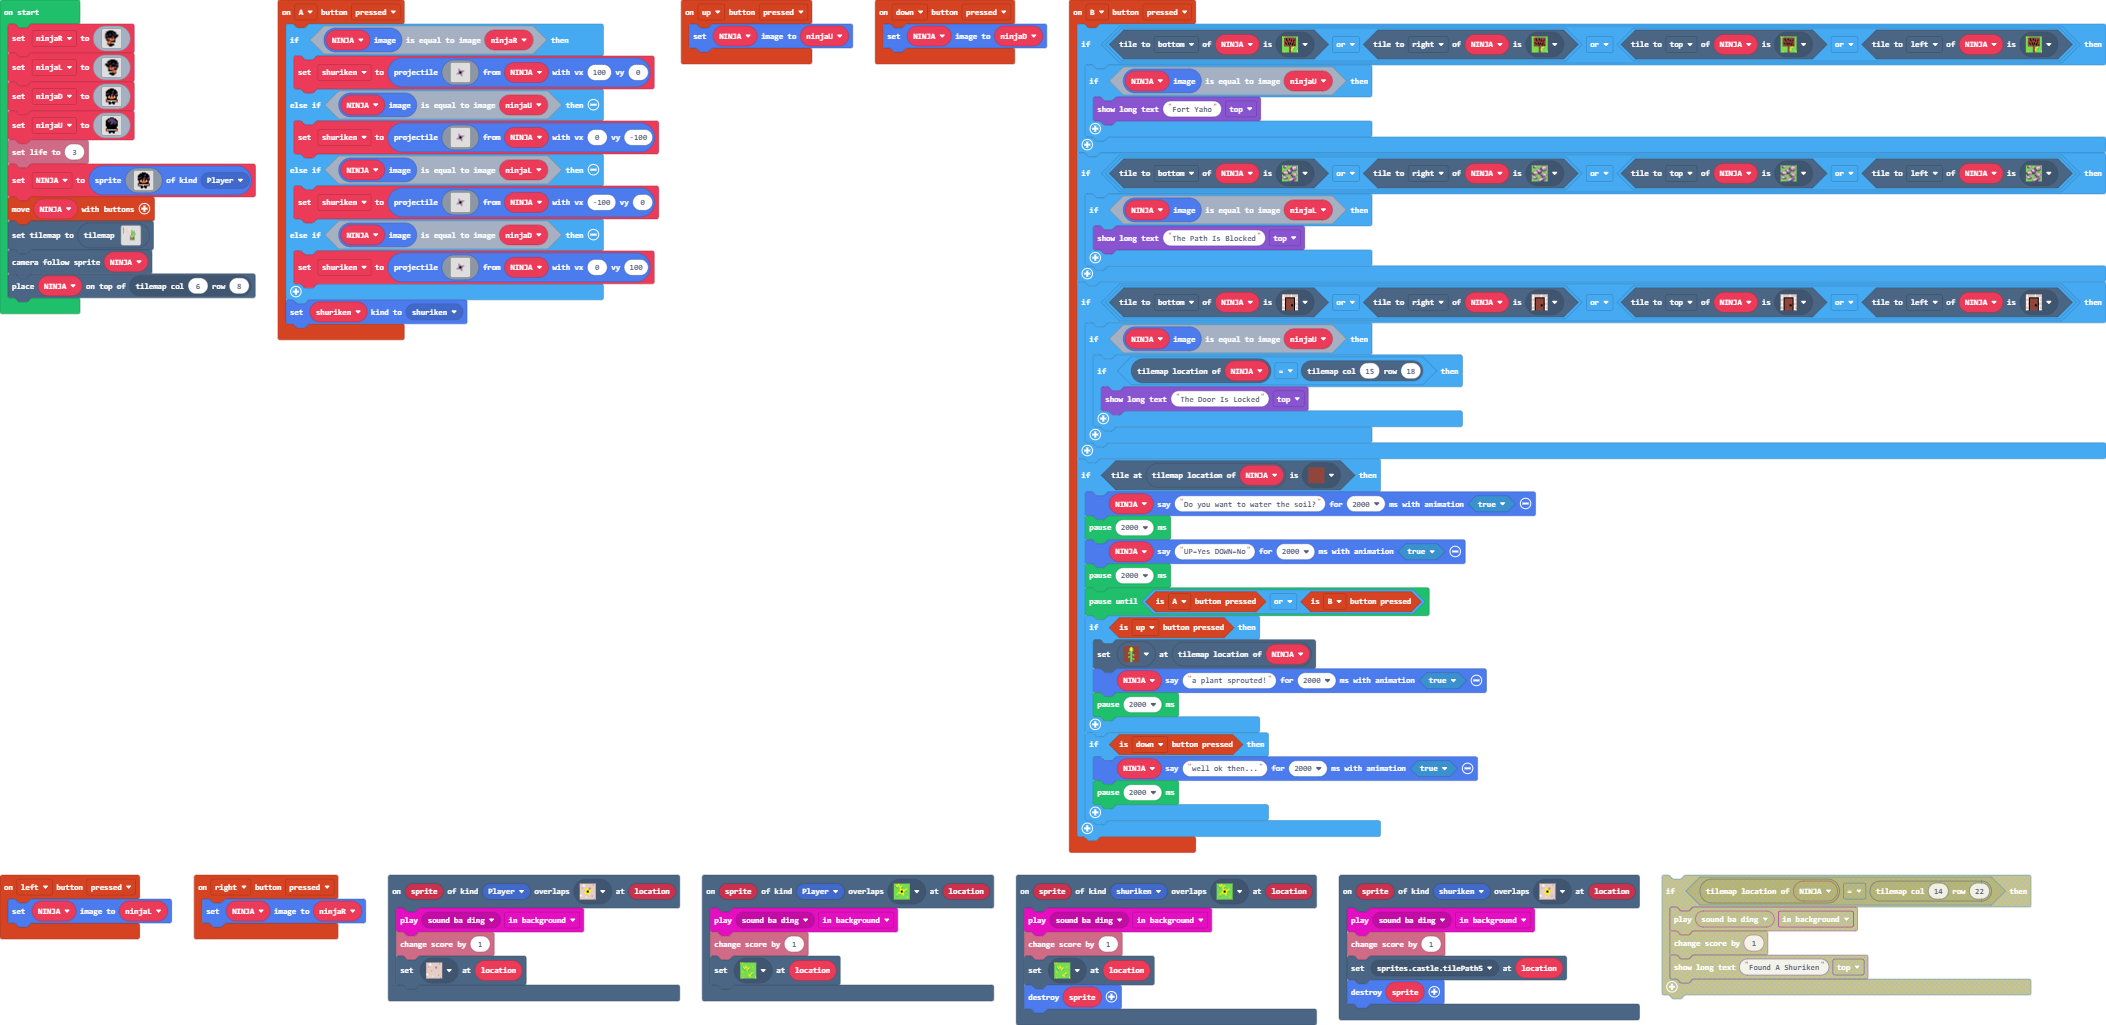
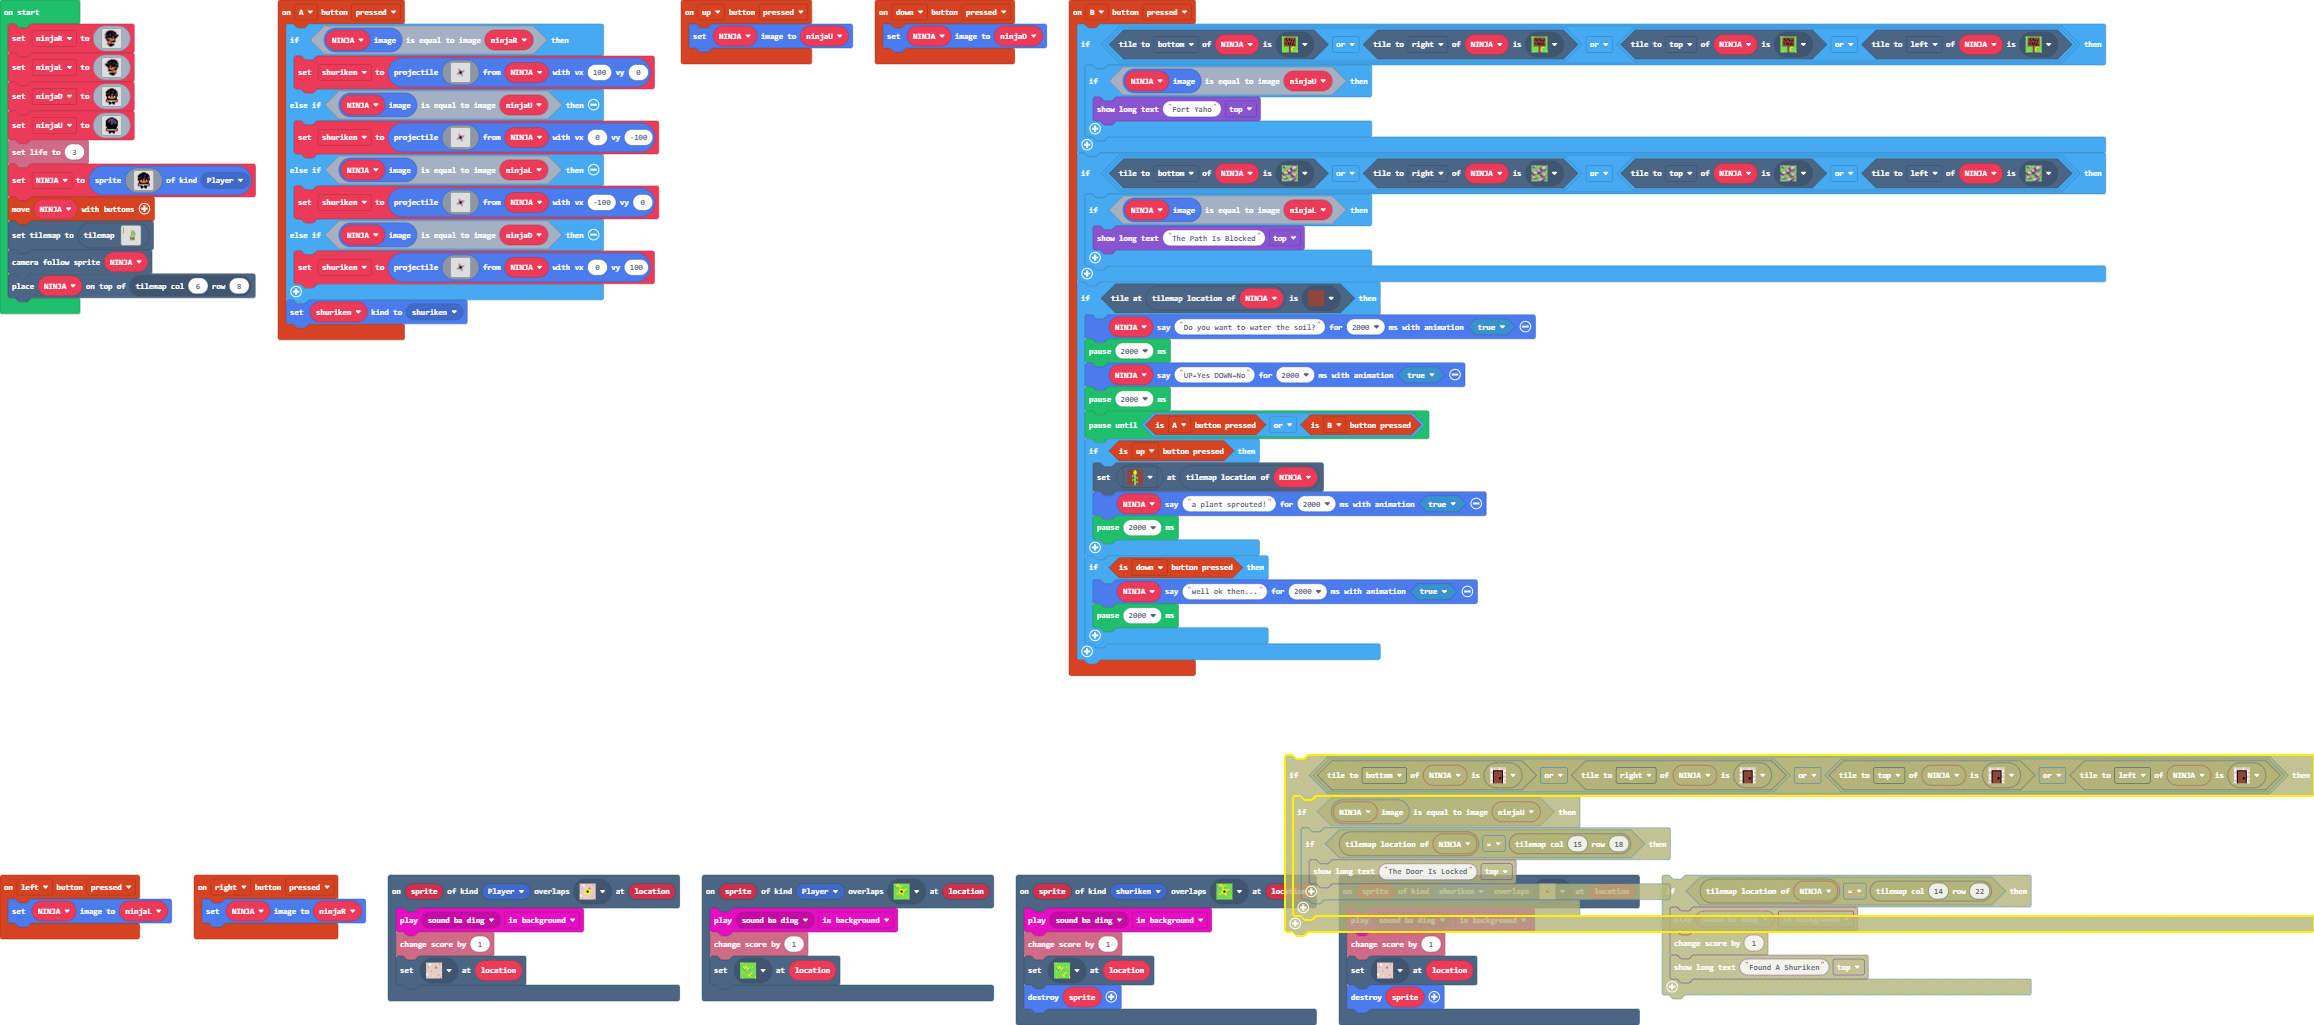
Update main.blocks, main.ts

diff --git a/main.ts b/main.ts
@@ -26,13 +26,6 @@ controller.B.onEvent(ControllerButtonEvent.Pressed, function () {
             game.showLongText("The Path Is Blocked", DialogLayout.Top)
         }
     }
-    if (NINJA.tileKindAt(TileDirection.Bottom, assets.tile`myTile10`) || NINJA.tileKindAt(TileDirection.Right, assets.tile`myTile10`) || (NINJA.tileKindAt(TileDirection.Top, assets.tile`myTile10`) || NINJA.tileKindAt(TileDirection.Left, assets.tile`myTile10`))) {
-        if (NINJA.image.equals(ninjaU)) {
-            if (NINJA.tilemapLocation() == tiles.getTileLocation(15, 18)) {
-                game.showLongText("The Door Is Locked", DialogLayout.Top)
-            }
-        }
-    }
     if (tiles.tileAtLocationEquals(NINJA.tilemapLocation(), assets.tile`myTile9`)) {
         NINJA.sayText("Do you want to water the soil?", 2000, true)
         pause(2000)
